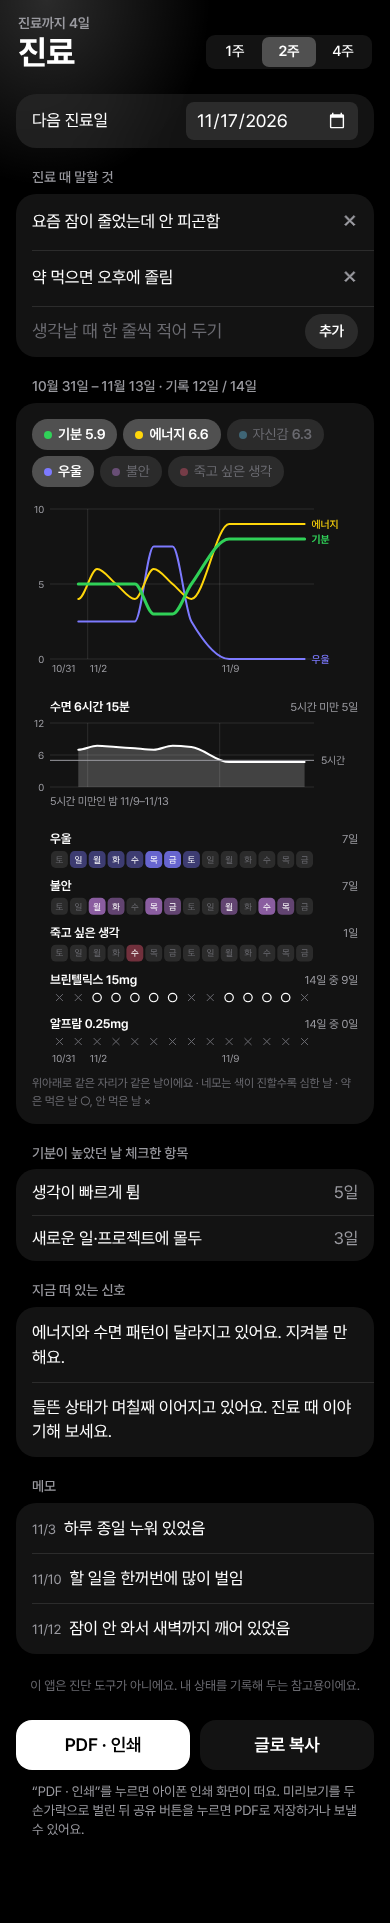
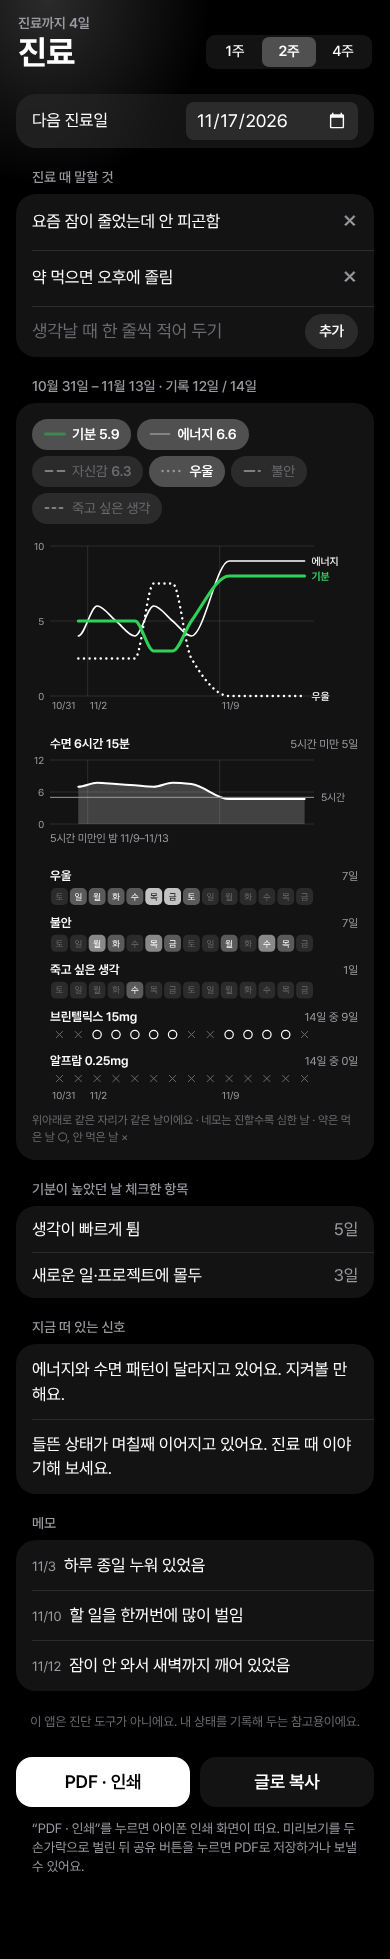
Tide: clinic chart lines differ by shape, not colour
The per-line colours made the summary look busy. Lines are one colour again and are told apart by stroke (solid, dashed, dotted, dash-dot, thickness); only mood keeps the chosen accent. The buttons show a sample of each line, and the symptom squares are filled in the single ink colour. The --l-* colour variables and the CLAUDE.md exception are removed.

Claude-Session: https://claude.ai/code/session_01Du4KAy7crrN67i73oW7iBF

diff --git a/mood/js/views/clinic.js b/mood/js/views/clinic.js
@@ -33,8 +33,15 @@ const lineDefs = () => [
   ['dep', T('우울'), 4], ['anx', T('불안'), 4], ['si', T('죽고 싶은 생각'), 4],
 ].filter(([key]) => itemOn(key));
 
-// 선마다 색이 다르다 (한 그래프에 여러 선을 겹쳐도 구분되도록, 이 그래프에서만). 기분은 설정에서 고른 색.
-const lineColor = (key) => (key === 'mood' ? tone('mood', 10) || 'var(--ink)' : `var(--l-${key})`);
+// 선은 색이 아니라 모양으로 구분한다: [굵기, 끊김 무늬]. 기분만 설정에서 고른 색의 굵은 실선이고, 나머지는 같은 색(--ink)이다.
+const LINE_STYLE = {
+  mood: [3, ''], energy: [1.6, ''], conf: [1.8, '7 5'],
+  dep: [2.4, '0.1 5.5'], anx: [1.8, '10 4 1.5 4'], si: [1.8, '3 4'],
+};
+const lineColor = (key) => (key === 'mood' ? tone('mood', 10) || 'var(--ink)' : 'var(--ink)');
+const lineAttrs = (key) => `fill="none" stroke-linejoin="round" stroke-linecap="round" style="stroke:${lineColor(key)}" stroke-width="${LINE_STYLE[key][0]}"${LINE_STYLE[key][1] ? ` stroke-dasharray="${LINE_STYLE[key][1]}"` : ''}`;
+// 단추에 붙는 선 견본
+const lineSample = (key) => `<svg width="22" height="8" aria-hidden="true"><path d="M1.5,4H20.5" ${lineAttrs(key)}/></svg>`;
 
 // 이어진 날짜는 묶어서 적는다: 11/9–11/13, 11/20
 function dateRanges(list) {
@@ -76,11 +83,11 @@ function figures(s, width) {
   });
   const points = (key, yOf) => s.days.map((e, i) => (e && e[key] != null ? [cx(i), yOf(e[key])] : null)).filter(Boolean);
   // 값이 있는 날들을 부드러운 곡선으로 잇는다 (하루뿐이면 점 하나). area가 있으면 곡선 아래를 옅게 채운다.
-  const curve = (pts, color, w, areaTo) => {
+  const curve = (pts, color, attrs, areaTo) => {
     if (pts.length < 2) { pts.forEach((p) => { out += `<circle cx="${p[0].toFixed(1)}" cy="${p[1].toFixed(1)}" r="2.6" style="fill:${color}"/>`; }); return; }
     const d = smoothPath(pts);
     if (areaTo) out += `<path d="${d}L${pts[pts.length - 1][0].toFixed(1)},${areaTo}L${pts[0][0].toFixed(1)},${areaTo}Z" style="fill:var(--fill)" stroke="none"/>`;
-    out += `<path d="${d}" fill="none" stroke-linejoin="round" stroke-linecap="round" style="stroke:${color}" stroke-width="${w}"/>`;
+    out += `<path d="${d}" ${attrs}/>`;
   };
   const floor = (at) => { out += `<line x1="${L}" x2="${L + pw}" y1="${at}" y2="${at}" style="stroke:var(--line)"/>`; };
 
@@ -92,7 +99,7 @@ function figures(s, width) {
   lineDefs().filter(([key]) => clinicView.lines.includes(key)).reverse().forEach(([key, name, max]) => {
     const pts = points(key, (v) => sy(v / max * 10));
     if (!pts.length) return;
-    curve(pts, lineColor(key), key === 'mood' ? 3 : 2);
+    curve(pts, lineColor(key), lineAttrs(key));
     ends.push({ name, color: lineColor(key), x: pts[pts.length - 1][0] + 7, y: pts[pts.length - 1][1] + 3.5, bold: key === 'mood' });
   });
   ends.sort((a, b) => a.y - b.y).forEach((e, i) => {
@@ -107,7 +114,7 @@ function figures(s, width) {
   const BH = 64, sTop = y + 12, base = sTop + BH, slY = (m) => base - Math.min(m, 720) / 720 * BH;
   [0, 6, 12].forEach((h) => { floor(slY(h * 60)); out += `<text x="${L - 6}" y="${slY(h * 60) + 3.5}" font-size="10" text-anchor="end" ${mutedText}>${h}</text>`; });
   weekLines(sTop, base);
-  curve(points('sleepMin', slY), 'var(--ink)', 2, base);
+  curve(points('sleepMin', slY), 'var(--ink)', 'fill="none" stroke-linejoin="round" stroke-linecap="round" style="stroke:var(--ink)" stroke-width="2"', base);
   out += `<line x1="${L}" x2="${L + pw}" y1="${slY(SHORT_SLEEP)}" y2="${slY(SHORT_SLEEP)}" style="stroke:var(--muted)"/><text x="${L + pw + 7}" y="${slY(SHORT_SLEEP) + 3.5}" font-size="10.5" ${mutedText}>${T('5시간')}</text>`;
   y = base + 6;
   if (s.shortSleep.length) {
@@ -125,8 +132,8 @@ function figures(s, width) {
     head(name, count ? F('{0}일', count) : T('없음'));
     s.dates.forEach((d, i) => {
       const v = (s.days[i] && s.days[i][k]) || 0, x = cx(i) - sq / 2, top = y + 8;
-      out += `<rect x="${x.toFixed(1)}" y="${top}" width="${sq.toFixed(1)}" height="${sq.toFixed(1)}" rx="${(sq * 0.28).toFixed(1)}" ${v ? `style="fill:var(--l-${k})" fill-opacity="${[0, 0.4, 0.6, 0.8, 1][v]}"` : 'class="c0"'}/>`;
-      if (sq >= 13) out += `<text x="${cx(i).toFixed(1)}" y="${(top + sq / 2 + 3.2).toFixed(1)}" text-anchor="middle" font-size="9" style="fill:${v >= 3 ? '#fff' : v ? 'var(--text)' : 'var(--faint)'}">${wd[parse(d).getDay()][0]}</text>`;
+      out += `<rect x="${x.toFixed(1)}" y="${top}" width="${sq.toFixed(1)}" height="${sq.toFixed(1)}" rx="${(sq * 0.28).toFixed(1)}" ${v ? `style="fill:var(--ink)" fill-opacity="${[0, 0.3, 0.5, 0.75, 1][v]}"` : 'class="c0"'}/>`;
+      if (sq >= 13) out += `<text x="${cx(i).toFixed(1)}" y="${(top + sq / 2 + 3.2).toFixed(1)}" text-anchor="middle" font-size="9" style="fill:${v >= 3 ? 'var(--ink-inv)' : v ? 'var(--text)' : 'var(--faint)'}">${wd[parse(d).getDay()][0]}</text>`;
     });
     y += 8 + sq + 22;
   });
@@ -181,7 +188,7 @@ function summaryHtml(weeks) {
   const width = Math.max(240, Math.min(app.clientWidth, 480) - 32 - 32);
   const fig = figures(s, width);
   // 큰 그래프의 선을 켜고 끄는 단추: 기분·에너지·자신감은 평균을 옆에 적는다
-  const toggles = lineDefs().map(([key, name, max]) => `<button class="sum-tog" data-act="clinicLine" data-k="${key}" aria-pressed="${clinicView.lines.includes(key)}"><i style="background:${lineColor(key)}"></i>${name}${max === 10 && s[key] ? ` <b>${one(s[key].avg)}</b>` : ''}</button>`).join('');
+  const toggles = lineDefs().map(([key, name, max]) => `<button class="sum-tog" data-act="clinicLine" data-k="${key}" aria-pressed="${clinicView.lines.includes(key)}">${lineSample(key)}${name}${max === 10 && s[key] ? ` <b>${one(s[key].avg)}</b>` : ''}</button>`).join('');
   const signs = s.signs.map(([name, c]) => li(esc(name), F('{0}일', c)));
   const says = (title, rows) => (rows.length ? `<div class="sec">${title}</div><section class="card list">${rows.join('')}</section>` : '');
   return `
@@ -190,7 +197,7 @@ function summaryHtml(weeks) {
       ${toggles ? `<div class="sum-togs">${toggles}</div>${fig.chart}` : ''}
       ${itemOn('sleep') ? fig.sleep : ''}
       ${fig.rows}
-      <p class="sum-key">${T('위아래로 같은 자리가 같은 날이에요 · 네모는 색이 진할수록 심한 날 · 약은 먹은 날 ○, 안 먹은 날 ×')}</p>
+      <p class="sum-key">${T('위아래로 같은 자리가 같은 날이에요 · 네모는 진할수록 심한 날 · 약은 먹은 날 ○, 안 먹은 날 ×')}</p>
     </section>
     ${says(T('기분이 높았던 날 체크한 항목'), signs)}
     ${says(T('지금 떠 있는 신호'), s.signals.map((x) => `<div class="li say">${esc(x)}</div>`))}

diff --git a/mood/app.css b/mood/app.css
@@ -36,24 +36,11 @@
   --safe-b: env(safe-area-inset-bottom, 0px);
   --round: ui-rounded, "SF Pro Rounded", var(--font, -apple-system, BlinkMacSystemFont, sans-serif);
   --blur: blur(26px) saturate(150%);
-  /* 진료용 요약의 큰 그래프에서만 쓰는 선 색 (여러 선을 겹쳐도 구분되도록) */
-  --l-energy: #ffd60a;
-  --l-conf: #64d2ff;
-  --l-dep: #7d7aff;
-  --l-elev: #ff9f0a;
-  --l-anx: #da8fff;
-  --l-si: #ff5c7a;
 }
 :root[data-theme=light] {
   color-scheme: light;
   /* 라이트는 대비를 낮춘다: 새까만 색 대신 짙은 회색, 바탕은 아이폰 설정 화면의 옅은 회색 */
   --bg: #f2f2f7;
-  --l-energy: #d19a00;
-  --l-conf: #1e96d1;
-  --l-dep: #5856d6;
-  --l-elev: #f07800;
-  --l-anx: #af52de;
-  --l-si: #e6294f;
   --ink: #3a3a3c;
   --ink-inv: #fff;
   --text: #1d1d1f;
@@ -346,8 +333,7 @@ input[type=date] { border: 0; outline: none; background: var(--card2); color: va
 
 /* 인쇄·PDF: 요약 부분만, 흰 바탕에 검은 글씨로 (누르는 것들은 뺀다) */
 @media print {
-  :root, :root[data-theme=light] { --bg: #fff; --text: #000; --ink: #000; --muted: #444; --faint: #777; --line: #ccc; --card: transparent; --card2: transparent; --shadow: none;
-    --l-energy: #d19a00; --l-conf: #1e96d1; --l-dep: #5856d6; --l-elev: #f07800; --l-anx: #af52de; --l-si: #e6294f; }
+  :root, :root[data-theme=light] { --bg: #fff; --text: #000; --ink: #000; --muted: #444; --faint: #777; --line: #ccc; --card: transparent; --card2: transparent; --shadow: none; }
   body::before, .tabbar, .toast, .sheet { display: none !important; }
   body * { visibility: hidden; }
   #summary, #summary * { visibility: visible; }
@@ -379,8 +365,8 @@ input[type=date] { border: 0; outline: none; background: var(--card2); color: va
 .sum-togs { display: flex; flex-wrap: wrap; gap: 6px; margin: 2px 0 16px; }
 .sum-tog { background: var(--card2); border-radius: 999px; padding: 6px 12px; font-size: calc(12.5px * var(--fs, 1.12)); color: var(--faint); }
 .sum-tog b { font-family: var(--round); font-weight: 600; }
-.sum-tog i { display: inline-block; width: 8px; height: 8px; border-radius: 50%; margin-right: 6px; opacity: .35; }
-.sum-tog[aria-pressed=true] i { opacity: 1; }
+#summary .sum-tog svg { display: inline-block; vertical-align: middle; margin: -2px 6px 0 0; opacity: .4; }
+.sum-tog[aria-pressed=true] svg { opacity: 1; }
 .sum-tog[aria-pressed=true] { background: var(--sel); color: var(--text); font-weight: 600; }
 #summary svg { display: block; overflow: visible; font-family: inherit; }
 .sum-key { color: var(--faint); font-size: calc(10.5px * var(--fs, 1.12)); margin: 8px 0 0; line-height: 1.45; }

diff --git a/mood/js/i18n.js b/mood/js/i18n.js
@@ -51,7 +51,7 @@ const DICT = {
   '추가': 'Add',
   '진료용 요약': 'Summary for your appointment',
   '평균 (가장 낮은 날–가장 높은 날)': 'Average (lowest–highest day)',
-  '위아래로 같은 자리가 같은 날이에요 · 네모는 색이 진할수록 심한 날 · 약은 먹은 날 ○, 안 먹은 날 ×': 'The same position up and down is the same day · darker squares mean a harder day · medication: ○ taken, × not taken',
+  '위아래로 같은 자리가 같은 날이에요 · 네모는 진할수록 심한 날 · 약은 먹은 날 ○, 안 먹은 날 ×': 'The same position up and down is the same day · darker squares mean a harder day · medication: ○ taken, × not taken',
   '5시간': '5 h',
   '5시간 미만인 밤': 'Nights under 5 h:',
   '5시간 미만 {0}일': 'Under 5 h on {0} days',

diff --git a/mood/sw.js b/mood/sw.js
@@ -1,7 +1,7 @@
 // 오프라인에서도 열리도록 앱 파일을 저장해 둔다.
 // 인터넷이 될 때는 항상 최신 파일을 먼저 받아오고, 안 될 때만 저장본을 쓴다.
 // 앱 파일을 바꿔서 올릴 때마다 CACHE 숫자를 하나 올린다. js/ 에 파일을 더하면 JS 목록에도 더한다.
-const CACHE = 'tide-v54';
+const CACHE = 'tide-v55';
 const JS = ['main', 'config', 'i18n', 'constants', 'store', 'dates', 'theme', 'icons', 'dom', 'state', 'meds', 'analysis', 'files', 'render', 'swipe', 'lock',
   'views/today', 'views/trend', 'views/insight', 'views/record', 'views/settings', 'views/clinic', 'views/notes'];
 const FILES = ['./', 'index.html', 'app.css', 'manifest.webmanifest',

diff --git a/mood/js/config.js b/mood/js/config.js
@@ -2,4 +2,4 @@
 export const KEY = 'tide.v1', OLD_KEY = 'harugyeol.v1';
 
 // 설정 화면 맨 아래에 보이는 번호. 올릴 때마다 sw.js의 CACHE 숫자와 같이 하나 올린다.
-export const VERSION = 54;
+export const VERSION = 55;

diff --git a/CLAUDE.md b/CLAUDE.md
@@ -34,7 +34,7 @@
 - 트위터 연동, 앱이 직접 AI를 부르는 기능, 위젯은 하지 않는다 (서버·비용·데이터 유출 때문에 사용자가 접음 / 웹앱으로 불가).
 - 알림은 캘린더 파일(.ics)로 대신한다.
 - 색은 하나만 쓴다 (기분·에너지·자신감 공통, 수면은 무채색). 배경 빛은 왼쪽 위 하나.
-  예외: 진료용 요약의 큰 그래프는 선마다 색이 다르다 (`--l-*`). 한 그래프에 겹친 선이 "구분이 안 간다"고 해서 넣었다 (2026-11-13).
+  진료용 요약의 큰 그래프도 선을 색이 아니라 모양(실선·점선·굵기)으로 구분한다. 선마다 색을 넣어 봤는데 사용자가 난잡하다고 해서 뺐다 (2026-11-13).
 - 말투는 차분하게, 판단이 아니라 관찰로. 겁주는 문구를 쓰지 않는다.
 - "죽고 싶은 생각"은 다른 증상과 같은 5단계로 적는다 (사용자가 요청, 2026-11-13). 높음 이상인 날 오늘 화면에 109 상담전화를 한 줄로 조용히 보여 주는 것 말고는 따로 막거나 경고하지 않는다.
 - 잠금은 4자리 숫자 가림막이다 (암호화 아님). 잊으면 기록을 지우고 새로 시작하는 길만 있다. 백업 파일에는 비밀번호를 넣지 않는다.
